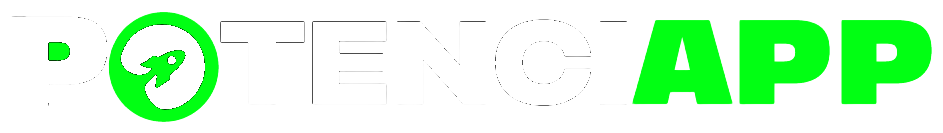
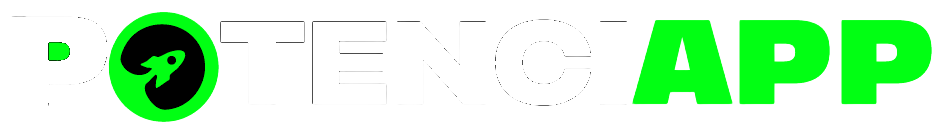
feat(branding): actualizar wordmark-dark-full y apuntar componente al -full
- wordmark-dark-full.png actualizado (943x133)
- BrandWordmark ahora lee /branding/png/wordmark-{theme}-full.png en lugar del
  -800.png, asi cualquier update del asset original se refleja sin pasar por
  un tamano intermedio. Aspect ratio practicamente identico (7.09 vs 7.08).

Changed region(s): [[0.123, 0.1805, 0.2153, 0.8421]]

diff --git a/components/brand.tsx b/components/brand.tsx
@@ -77,13 +77,15 @@ export function BrandMark({
 
 /**
  * BrandWordmark — wordmark oficial Potenciapp.
- * Renderiza el PNG original (800×113, aspect ~7.08:1) desde /public/branding/png/.
+ * Renderiza el PNG original a resolución máxima (943×133, aspect ~7.09:1) desde
+ * /public/branding/png/wordmark-{theme}-full.png — fuente única de verdad para
+ * que cualquier update del asset se refleje sin tocar tamaños intermedios.
  * Convención del branding (ver public/branding/README.md):
  *   theme="dark"  → POTENCI en blanco, para fondos oscuros (default — el sitio es negro)
  *   theme="light" → POTENCI en negro, para fondos claros
  */
-const WORDMARK_W = 800
-const WORDMARK_H = 113
+const WORDMARK_W = 943
+const WORDMARK_H = 133
 
 export function BrandWordmark({
   size = "md",
@@ -101,7 +103,7 @@ export function BrandWordmark({
   const heights = { sm: 22, md: 28, lg: 40, xl: 64 } as const
   const h = heights[size]
   const w = Math.round((h * WORDMARK_W) / WORDMARK_H)
-  const src = `/branding/png/wordmark-${theme}-800.png`
+  const src = `/branding/png/wordmark-${theme}-full.png`
 
   return (
     <Image
